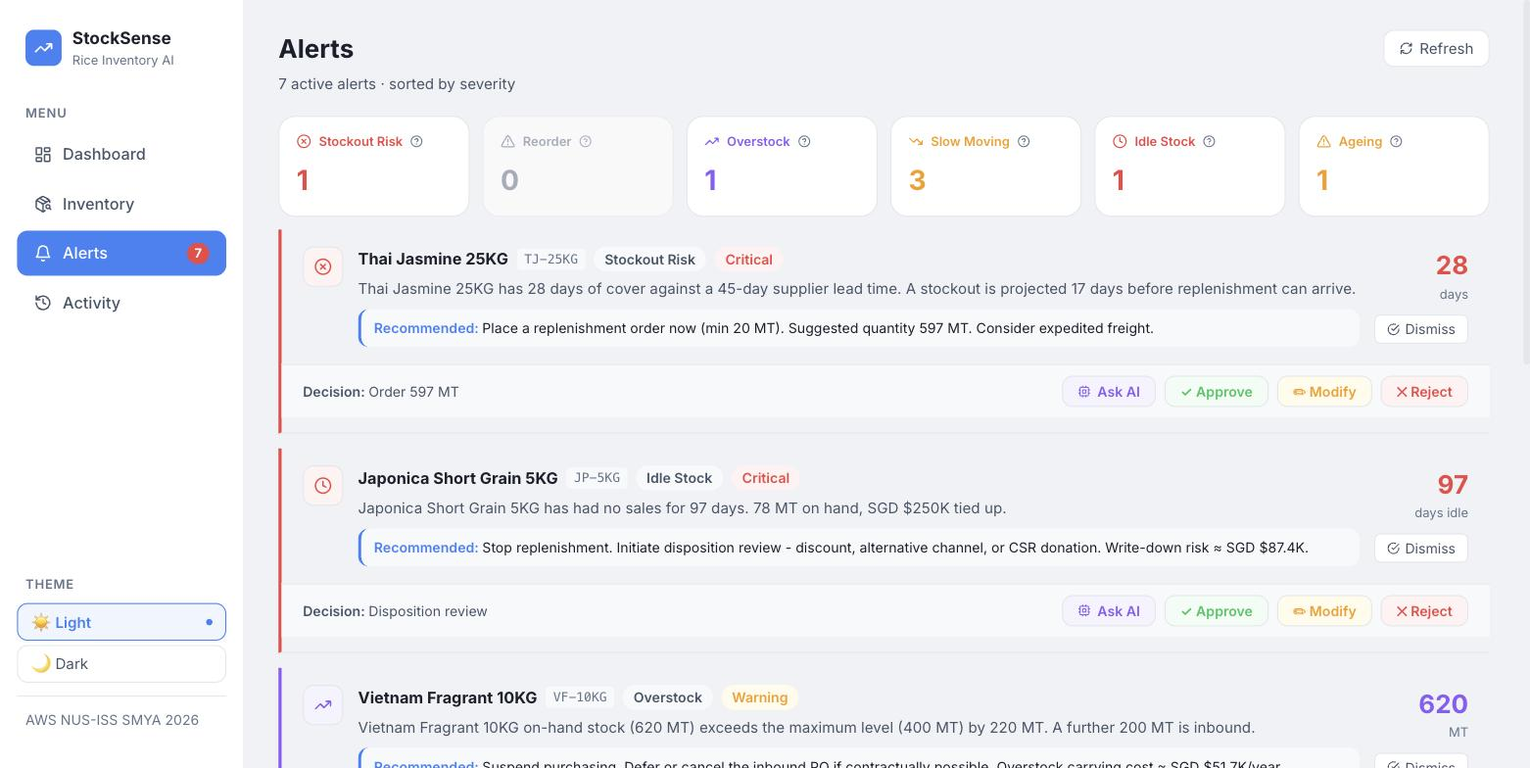
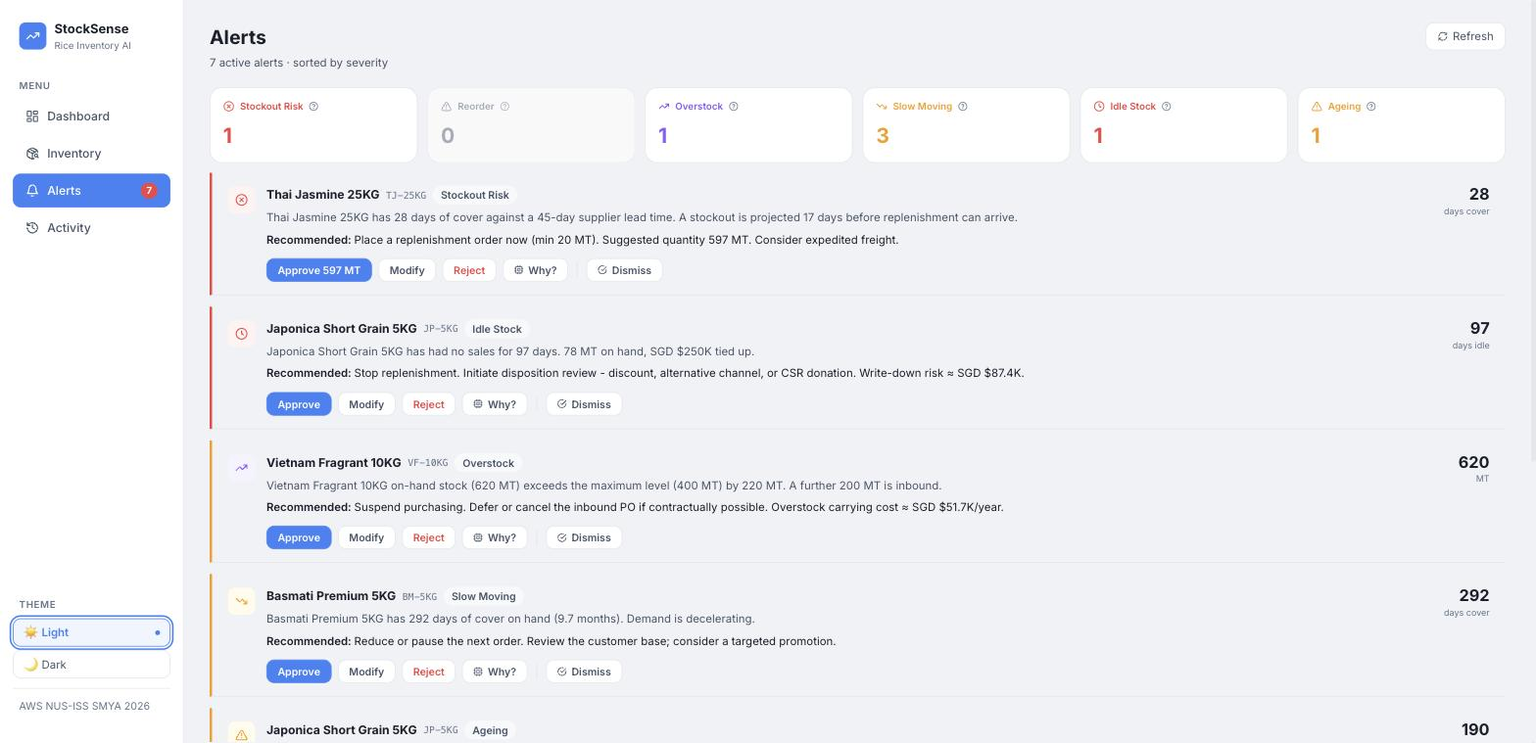
refactor(alerts): declutter the card, move the decision log to Activity
Two questions from Stan, the Alerts page reading as cluttered and whether
Activity should fold into it, which turn out to be the same question because the
clutter had a structural cause rather than a styling one.

Four encodings of two facts: a type coloured stripe, a type coloured icon, a
type chip and a severity chip, all under a tile row that already groups by type.
Severity moved to the stripe so one chip could go.

A box inside a box inside a box: the recommended action sat in a bordered,
tinted panel with its own coloured left bar, inside a card that already has a
border and a stripe. The label alone separates it.

Actions split across two places with a different set per card: Dismiss floated
mid card beside the metric while the other four sat in a footer gated on
needsApproval, so four of the seven live alerts offered no decision at all.
Those four carry real recommended actions and WRITEUP.md claims every
recommendation terminates at a human decision, which was not true. Every alert
is now decidable, in one action row.

A rainbow instead of a hierarchy: four buttons in four colours meant nothing led
and the eye read all four. One primary, the rest quiet. The primary states what
it records ("Approve 597 MT"), which let its caption line go.

On the second question, Activity stays standalone. Alerts is a work queue and
items leave it when handled; Activity is the permanent record and nothing ever
[…]

diff --git a/frontend/src/pages/Alerts.jsx b/frontend/src/pages/Alerts.jsx
@@ -1,13 +1,13 @@
 import React, { useState, useEffect, useCallback } from "react";
+import { Link } from "react-router-dom";
 import {
   AlertTriangle, XCircle, TrendingUp, TrendingDown,
-  RefreshCw, X, CheckCircle, Clock, Cpu, ChevronDown,
+  RefreshCw, X, CheckCircle, Clock, Cpu, History,
 } from "lucide-react";
 import Badge from "../components/Badge";
 import ColHint from "../components/ColHint";
 import LoadingState from "../components/LoadingState";
 import ErrorState from "../components/ErrorState";
-import { useCollapsed } from "../hooks/useCollapsed";
 import { api } from "../api/inventory";
 import { buildExplanation } from "../lib/explain";
 
@@ -91,11 +91,6 @@ const TYPE_HINTS = {
     how: "The number shown is days held. Rice doesn't spoil overnight, but quality and sellability drop the longer it sits past that limit.",
   },
 };
-const DECISION_LOG_HINT = {
-  what: "A permanent record of every Approve, Modify, or Reject decision a manager has made on an AI/rule-based recommendation.",
-  how: "Nothing here can be edited or deleted - it's the audit trail for \"who decided what, and why,\" not a working list. Compare Manager Decision against AI Recommended to see how often recommendations get overridden.",
-};
-
 // Ask AI is a placeholder until TASK-11 wires a real LLM call (blocked on an
 // Anthropic API key). This used to look up a MOCK_AI_EXPLANATIONS dict keyed
 // by numeric alert.id, hand-written against the old mock alert set - but
@@ -122,7 +117,6 @@ export default function Alerts() {
   // Needed by the explanation builder: alerts carry the conclusion, the SKU
   // carries the inputs the conclusion was derived from.
   const [skus, setSkus] = useState([]);
-  const [logOpen, setLogOpen] = useCollapsed("alerts-decision-log", true);
 
   const loadAlerts = useCallback(() => {
     setLoadError(null);
@@ -282,69 +276,27 @@ export default function Alerts() {
         )}
       </div>
 
-      {/* ── Decision log - collapsible: it only grows, and isn't something
-          you need open on every visit (matches the Dashboard's per-widget
-          collapse pattern, persisted the same way). ── */}
+      {/* The Decision Log table lived here and has moved to /activity.
+          It was a strict subset of what the audit trail already records
+          (DECISION_RECORDED events), rendered as a second, worse view: seven
+          columns of the same rows, growing forever, at the bottom of a page
+          whose job is the opposite one. Alerts is a work queue, things leave it
+          when handled. Activity is the permanent record, nothing ever leaves.
+          Keeping both meant the page that should shrink as you work also grew
+          as you worked. */}
       {decisions.length > 0 && (
-        <div>
-          <div style={{ display: "flex", alignItems: "center", gap: 5, marginBottom: logOpen ? 14 : 0 }}>
-            <button type="button" onClick={() => setLogOpen((v) => !v)} aria-expanded={logOpen}
-              aria-label={logOpen ? "Collapse Decision Log" : "Expand Decision Log"}
-              style={{ display: "flex", alignItems: "center", gap: 6, background: "none", border: "none", cursor: "pointer", padding: 0, color: "inherit" }}>
-              <ChevronDown size={15} color="var(--text-muted)" style={{ transform: logOpen ? "none" : "rotate(-90deg)", transition: "transform 0.15s" }} />
-              <h2 style={{ fontSize: 18, fontWeight: 700 }}>Decision Log</h2>
-            </button>
-            <ColHint label="Decision Log" what={DECISION_LOG_HINT.what} how={DECISION_LOG_HINT.how} />
-          </div>
-          {logOpen && (
-          <div style={{ background: "var(--card-bg)", border: "1px solid var(--border)", borderRadius: "var(--radius-lg)", overflow: "hidden" }}>
-            <table style={{ width: "100%", borderCollapse: "collapse" }}>
-              <thead>
-                <tr style={{ background: "var(--surface-2)", borderBottom: "1px solid var(--border)" }}>
-                  {["Time", "SKU", "Alert Type", "AI Recommended", "Manager Decision", "Qty Approved", "Reason"].map((h) => (
-                    <th key={h} style={{ padding: "9px 14px", textAlign: "left", fontSize: 12, fontWeight: 600, color: "var(--text-secondary)", whiteSpace: "nowrap" }}>{h}</th>
-                  ))}
-                </tr>
-              </thead>
-              <tbody>
-                {decisions.map((d, i) => (
-                  <tr key={d.id} style={{ borderBottom: i < decisions.length - 1 ? "1px solid var(--border)" : "none" }}>
-                    <td style={{ padding: "10px 14px", fontSize: 13, color: "var(--text-muted)", whiteSpace: "nowrap" }}>
-                      {new Date(d.decided_at).toLocaleTimeString("en-SG", { hour: "2-digit", minute: "2-digit" })}
-                    </td>
-                    <td style={{ padding: "10px 14px", fontSize: 14, fontWeight: 600 }}>{d.sku_name}</td>
-                    <td style={{ padding: "10px 14px" }}>
-                      {d.trigger_type && <Badge type={d.trigger_type} label={d.trigger_type.replace(/_/g, " ")} />}
-                    </td>
-                    <td style={{ padding: "10px 14px", fontSize: 13, color: "var(--text-secondary)", maxWidth: 220, overflow: "hidden", textOverflow: "ellipsis", whiteSpace: "nowrap" }}
-                      title={d.ai_quantity == null ? d.ai_recommendation : undefined}>
-                      {/* Quantity-based alerts (stockout, reorder) recommend an
-                          MT figure; qualitative ones (idle, ageing, slow-moving)
-                          don't - this used to fall back to a bare, meaningless
-                          "Review" literal instead of the actual recommendation
-                          text that's already stored right alongside it. */}
-                      {d.ai_quantity != null ? `${d.ai_quantity} MT` : (d.ai_recommendation || "-")}
-                    </td>
-                    <td style={{ padding: "10px 14px" }}>
-                      <span style={{
-                        fontWeight: 700, fontSize: 13,
-                        color: d.manager_action === "approved" ? "var(--green)" : d.manager_action === "rejected" ? "var(--red)" : "var(--yellow)",
-                      }}>
-                        {d.manager_action.toUpperCase()}
-                      </span>
-                    </td>
-                    <td style={{ padding: "10px 14px", fontSize: 14 }}>
-                      {d.manager_quantity != null ? `${d.manager_quantity} MT` : "-"}
-                    </td>
-                    <td style={{ padding: "10px 14px", fontSize: 13, color: "var(--text-secondary)" }}>
-                      {d.manager_reason || "-"}
-                    </td>
-                  </tr>
-                ))}
-              </tbody>
-            </table>
-          </div>
-          )}
+        <div style={{ marginTop: 4, marginBottom: 24 }}>
+          <Link to="/activity" style={{
+            display: "inline-flex", alignItems: "center", gap: 7,
+            fontSize: 13, fontWeight: 600, color: "var(--text-secondary)",
+            textDecoration: "none", padding: "8px 14px",
+            border: "1px solid var(--border)", borderRadius: "var(--radius)",
+            background: "var(--card-bg)",
+          }}>
+            <History size={13} />
+            {decisions.length} decision{decisions.length === 1 ? "" : "s"} recorded
+            <span style={{ color: "var(--text-muted)", fontWeight: 500 }}>View in Activity</span>
+          </Link>
         </div>
       )}
 
@@ -367,105 +319,130 @@ export default function Alerts() {
 }
 
 // ── Alert card ─────────────────────────────────────────────────────────────────
+// Severity colours the stripe. Type colours the icon and the chip. The card used
+// to carry FOUR encodings of roughly the same two facts: a type-coloured stripe,
+// a type-coloured icon, a type chip AND a severity chip, on top of a tile row
+// above that already groups by type. Severity moved to the stripe so one chip
+// could go.
+const SEVERITY_STRIPE = { critical: "var(--red)", warning: "var(--yellow)", info: "var(--blue)" };
+
+// Unit for each alert type's triggered_value - see backend/src/engines/alerts.js
+const VALUE_UNIT = {
+  STOCKOUT_RISK: "days cover", SLOW_MOVING: "days cover",
+  REORDER: "MT", OVERSTOCK: "MT",
+  IDLE: "days idle", AGEING: "days held",
+};
+
+function ActionButton({ onClick, children, variant = "quiet", title }) {
+  // One primary, everything else quiet. The row used to be four buttons in four
+  // different colours (purple, green, amber, red), which is a rainbow rather
+  // than a hierarchy: nothing led, so the eye had to read all four every time.
+  const styles = {
+    primary: { background: "var(--blue)", color: "#fff", border: "1px solid var(--blue)" },
+    quiet:   { background: "var(--card-bg)", color: "var(--text-secondary)", border: "1px solid var(--border)" },
+    danger:  { background: "var(--card-bg)", color: "var(--red)", border: "1px solid var(--border)" },
+  }[variant];
+  return (
+    <button onClick={onClick} title={title}
+      style={{
+        display: "inline-flex", alignItems: "center", gap: 6,
+        padding: "6px 13px", borderRadius: "var(--radius)",
+        fontSize: 13, fontWeight: 600, cursor: "pointer", whiteSpace: "nowrap",
+        ...styles,
+      }}>
+      {children}
+    </button>
+  );
+}
+
 function AlertCard({ alert, onAcknowledge, onAskAI, onApprove, isLast }) {
   const meta = TYPE_META[alert.alert_type] || TYPE_META.REORDER;
   const Icon = meta.icon;
-  const needsApproval = alert.severity === "critical" || (alert.ai_recommendation_qty != null);
 
-  // Hairline divider, not a bordered-and-shadowed box - matches the rest of
-  // the app's post-overhaul style; the colored left stripe still carries
-  // severity at a glance without needing a full card outline (visual-
-  // consistency pass, 2026-09 - this was the last page still boxing rows).
+  // Every alert is now decidable. `needsApproval` previously gated the action
+  // row on critical severity or a non-null quantity, so four of the seven live
+  // alerts offered no decision at all, only Dismiss. Those four still carry a
+  // real recommended action ("Reduce or pause the next order", "Escalate to QA")
+  // that a manager should be able to approve or reject, and the write-up claims
+  // every recommendation terminates at a human decision. It did not.
+  const decision = alert.ai_recommendation_qty > 0
+    ? `Order ${alert.ai_recommendation_qty} MT`
+    : (ACTION_SUMMARY[alert.alert_type] || "Review this SKU");
+
   return (
     <div style={{
-      borderLeft: `3px solid ${meta.color}`,
+      borderLeft: `3px solid ${SEVERITY_STRIPE[alert.severity] || "var(--border)"}`,
       borderBottom: isLast ? "none" : "1px solid var(--border)",
-      paddingBottom: 14,
     }}>
-      {/* Main row */}
       <div style={{ display: "flex", alignItems: "flex-start", gap: 14, padding: "16px 20px" }}>
-        {/* Icon */}
-        <div style={{ width: 38, height: 38, borderRadius: 10, background: meta.bg, border: "1px solid var(--border)", display: "flex", alignItems: "center", justifyContent: "center", flexShrink: 0 }}>
-          <Icon size={17} color={meta.color} />
+        <div style={{
+          width: 34, height: 34, borderRadius: 9, background: meta.bg,
+          display: "flex", alignItems: "center", justifyContent: "center", flexShrink: 0, marginTop: 1,
+        }}>
+          <Icon size={16} color={meta.color} />
         </div>
 
-        {/* Content */}
         <div style={{ flex: 1, minWidth: 0 }}>
-          <div style={{ display: "flex", alignItems: "center", gap: 8, flexWrap: "wrap", marginBottom: 6 }}>
+          <div style={{ display: "flex", alignItems: "center", gap: 8, flexWrap: "wrap" }}>
             <span style={{ fontWeight: 700, fontSize: 15 }}>{alert.sku_name}</span>
-            <span style={{ fontSize: 12, fontFamily: "monospace", color: "var(--text-muted)", background: "var(--surface-2)", padding: "1px 7px", borderRadius: 4 }}>{alert.sku_id}</span>
+            <span style={{ fontSize: 12, fontFamily: "monospace", color: "var(--text-muted)" }}>{alert.sku_id}</span>
             <Badge type={alert.alert_type} label={meta.label} />
-            <Badge type={alert.severity} />
           </div>
-          <p style={{ fontSize: 14, color: "var(--text-secondary)", lineHeight: 1.55, marginBottom: 8 }}>
+
+          <p style={{ fontSize: 14, color: "var(--text-secondary)", lineHeight: 1.55, margin: "6px 0 0" }}>
             {alert.message}
           </p>
-          <div style={{ padding: "8px 12px", background: "var(--surface-2)", borderRadius: "var(--radius)", fontSize: 13, color: "var(--text-primary)", borderLeft: "3px solid var(--blue)" }}>
-            <span style={{ fontWeight: 600, color: "var(--blue)" }}>Recommended: </span>
+
+          {/* Unboxed. This was a bordered, tinted panel with its own coloured
+              left bar, sitting inside a card that already has a border and a
+              coloured left stripe: a box inside a box inside a box. The label
+              alone separates it perfectly well. */}
+          <p style={{ fontSize: 14, color: "var(--text-primary)", lineHeight: 1.55, margin: "6px 0 0" }}>
+            <span style={{ fontWeight: 600 }}>Recommended: </span>
             {alert.recommended_action}
+          </p>
+
+          {/* One action row, always present, Dismiss included. Dismiss used to
+              float in the middle of the card beside the metric while the other
+              four sat in a footer bar that only some cards had, so actions were
+              split across two places and the set changed card to card. */}
+          {/* The primary button states what approving will record, so the
+              separate "Approving records: ..." line underneath could go. A
+              button that says "Approve 597 MT" needs no caption.
+
+              Dismiss stays in the same cluster rather than being pushed to the
+              far edge by a flex spacer, which on a wide screen stranded it
+              about a thousand pixels from its siblings. A plain separator
+              carries "different kind of action" without the distance. */}
+          <div style={{ display: "flex", alignItems: "center", gap: 8, flexWrap: "wrap", marginTop: 12 }}>
+            <ActionButton variant="primary" onClick={() => onApprove(alert)}
+              title={`Record approval: ${decision}`}>
+              {alert.ai_recommendation_qty > 0 ? `Approve ${alert.ai_recommendation_qty} MT` : "Approve"}
+            </ActionButton>
+            <ActionButton onClick={() => onApprove({ alert, preAction: "modified" })}>Modify</ActionButton>
+            <ActionButton variant="danger" onClick={() => onApprove({ alert, preAction: "rejected" })}>Reject</ActionButton>
+            <ActionButton onClick={() => onAskAI(alert)} title="Show the reasoning behind this alert">
+              <Cpu size={12} /> Why?
+            </ActionButton>
+            <span aria-hidden style={{ width: 1, height: 18, background: "var(--border)", margin: "0 3px" }} />
+            <ActionButton onClick={() => onAcknowledge(alert.id)} title="Dismiss without recording a decision">
+              <CheckCircle size={12} /> Dismiss
+            </ActionButton>
           </div>
         </div>
 
-        {/* Right: value + acknowledge */}
-        <div style={{ textAlign: "right", flexShrink: 0 }}>
-          <div style={{ fontSize: 24, fontWeight: 700, color: meta.color }}>{alert.triggered_value}</div>
-          <div style={{ fontSize: 12, color: "var(--text-muted)", marginBottom: 10 }}>
-            {/* Matches each alert type's actual triggered_value unit - see backend/src/engines/alerts.js */}
-            {alert.alert_type === "STOCKOUT_RISK" || alert.alert_type === "SLOW_MOVING" ? "days" :
-             alert.alert_type === "REORDER" || alert.alert_type === "OVERSTOCK" ? "MT" :
-             alert.alert_type === "IDLE" ? "days idle" : "days held"}
+        {/* The metric, quieter than before. At 24px bold in the type colour it
+            competed with the product name for first read; the name is what a
+            manager scans for. */}
+        <div style={{ textAlign: "right", flexShrink: 0, minWidth: 74 }}>
+          <div style={{ fontSize: 20, fontWeight: 700, color: "var(--text-primary)", lineHeight: 1.1 }}>
+            {alert.triggered_value}
           </div>
-          <button onClick={() => onAcknowledge(alert.id)}
-            style={{ display: "flex", alignItems: "center", gap: 5, padding: "5px 11px", border: "1px solid var(--border)", borderRadius: 6, background: "var(--card-bg)", fontSize: 13, cursor: "pointer", color: "var(--text-secondary)" }}>
-            <CheckCircle size={12} /> Dismiss
-          </button>
+          <div style={{ fontSize: 11, color: "var(--text-muted)", marginTop: 2 }}>
+            {VALUE_UNIT[alert.alert_type] || "days"}
+          </div>
         </div>
       </div>
-
-      {/* Action bar - only for alerts needing manager decision */}
-      {needsApproval && (
-        <div style={{
-          display: "flex", alignItems: "center", justifyContent: "space-between",
-          padding: "10px 20px", background: "var(--surface-2)",
-          borderTop: "1px solid var(--border)",
-        }}>
-          <div style={{ fontSize: 13, color: "var(--text-secondary)" }}>
-            <span style={{ fontWeight: 600 }}>Decision: </span>
-            {alert.ai_recommendation_qty > 0
-              ? `Order ${alert.ai_recommendation_qty} MT`
-              : (ACTION_SUMMARY[alert.alert_type] || "Review this SKU")}
-          </div>
-          <div style={{ display: "flex", gap: 8 }}>
-            {/* Ask AI button */}
-            <button onClick={() => onAskAI(alert)}
-              style={{
-                display: "flex", alignItems: "center", gap: 6,
-                padding: "6px 14px", borderRadius: "var(--radius)",
-                border: "1px solid var(--border)",
-                background: "var(--purple-light)", color: "var(--purple)",
-                fontSize: 13, fontWeight: 600, cursor: "pointer",
-              }}
-            >
-              <Cpu size={12} /> Ask AI
-            </button>
-            {/* Approval buttons - fixed: these referenced the out-of-scope
-                `setApprovalModal` directly and threw ReferenceError on click;
-                now correctly call the `onApprove` prop passed down from Alerts(). */}
-            <button onClick={() => onApprove(alert)}
-              style={{ padding: "6px 14px", borderRadius: "var(--radius)", border: "1px solid var(--border)", background: "var(--green-light)", color: "var(--green)", fontSize: 13, fontWeight: 600, cursor: "pointer" }}>
-              ✓ Approve
-            </button>
-            <button onClick={() => onApprove({ alert, preAction: "modified" })}
-              style={{ padding: "6px 14px", borderRadius: "var(--radius)", border: "1px solid var(--border)", background: "var(--yellow-light)", color: "var(--yellow)", fontSize: 13, fontWeight: 600, cursor: "pointer" }}>
-              ✏ Modify
-            </button>
-            <button onClick={() => onApprove({ alert, preAction: "rejected" })}
-              style={{ padding: "6px 14px", borderRadius: "var(--radius)", border: "1px solid var(--border)", background: "var(--red-light)", color: "var(--red)", fontSize: 13, fontWeight: 600, cursor: "pointer" }}>
-              ✕ Reject
-            </button>
-          </div>
-        </div>
-      )}
     </div>
   );
 }

diff --git a/.kiro/specs/mvp1-inventory-visibility/tasks.md b/.kiro/specs/mvp1-inventory-visibility/tasks.md
@@ -1153,6 +1153,43 @@ sidebar breakpoint from index.css, but that is reasoning about the code rather t
 Note for export: the image paths are repo-relative, so the markdown-to-PDF step has to run from the
 repository root.
 
+## TASK-40 - Declutter Alerts, and settle the Alerts versus Activity question (2026-09-13)
+
+Stan reported the Alerts page as cluttered and asked whether Activity should fold into it. The two turn
+out to be the same question, because the clutter had a structural cause rather than a styling one.
+
+**Four encodings of two facts.** Each card carried a type-coloured left stripe, a type-coloured icon, a
+type chip AND a severity chip, sitting under a tile row that already groups by type. Severity moved to
+the stripe so one chip could go: icon and chip now carry type, the stripe carries severity.
+
+**A box inside a box inside a box.** The recommended action sat in a bordered, tinted panel with its own
+coloured left bar, inside a card that already has a border and a stripe. Unboxed, the label alone
+separates it.
+
+**Actions split across two places, and a different set per card.** Dismiss floated mid-card beside the
+metric while the other four sat in a footer bar shown only when `needsApproval` passed, so four of the
+seven live alerts offered no decision at all. Those four carry real recommended actions ("Reduce or
+pause the next order", "Escalate to QA") and the write-up claims every recommendation terminates at a
+human decision, which was simply not true. Every alert is now decidable, with one action row.
+
+**A rainbow instead of a hierarchy.** Purple, green, amber and red buttons meant nothing led and the eye
+read all four. One primary, the rest quiet. The primary also states what it will record ("Approve 597
+MT"), which let the "Approving records:" caption go.
+
+The metric dropped from 24px bold in the type colour to 20px in the text colour; it was competing with
+the product name, which is what a manager actually scans for.
+
+**Activity stays standalone, and the Decision Log left Alerts.** Alerts is a work queue: items leave it
+when handled. Activity is the permanent record: nothing ever leaves. Folding one into the other fights
+that, and Activity also covers RESTOCK, SKU_UPDATED and SKU_CREATED, which have nothing to do with
+alerts. The real duplication was the Decision Log table at the bottom of Alerts, a strict subset of the
+audit trail's DECISION_RECORDED events rendered as a second, worse view, which meant the page that
+should shrink as you work also grew as you worked. Replaced with a one-line pointer to /activity.
+Pruned the orphaned useCollapsed state, DECISION_LOG_HINT and ChevronDown import.
+
+Verified in both themes. Four cards now fit where two did, without cramming. Alerts screenshot in
+WRITEUP.md re-captured, since the old one showed the previous card design.
+
 ## Deferred (Phase 2+)
 See `requirements.md` → "Explicitly Deferred (Phase 2/3)" for the full table with rationale. Summary:
 movement ledger, lot/batch genealogy, mobile receiving, import clearance, full stock-status taxonomy

diff --git a/DEVLOG.md b/DEVLOG.md
@@ -308,3 +308,11 @@ Auto-generated session log for StockSense / Rice Inventory MVP.
 - **Files changed:** .kiro/specs/mvp1-inventory-visibility/tasks.md, DEVLOG.md, SUBMISSION.md, WRITEUP.md
 - **New files:** docs/images/{alerts-human-in-the-loop,reasoning-trace,activity-audit-record}.jpg
 - **Notes:** TASK-39. Captured the write-up's screenshots from the running app rather than leaving placeholder markers, so the PDF now needs only the deployment URL. Added a third image the outline did not ask for: section 3 spends four paragraphs arguing the deterministic-first case and had no evidence on the page, and the reasoning trace is both that evidence and the best-looking screen in the build. Captions are written to carry the argument rather than to describe the picture.
+
+---
+
+## Session: 2026-09-13 11:20
+- **Branch:** observability-and-submission-prep
+- **Files changed:** .kiro/specs/mvp1-inventory-visibility/tasks.md, DEVLOG.md, WRITEUP.md, docs/images/alerts-human-in-the-loop.jpg, frontend/src/pages/Alerts.jsx
+- **New files:** none
+- **Notes:** TASK-40. Stan asked to declutter Alerts and whether Activity should fold into it; the answers connect. The clutter was structural: four encodings of two facts (stripe, icon, type chip, severity chip, over a tile row already grouping by type), a recommended-action panel boxed inside an already-bordered card, actions split between a floating Dismiss and a footer that only some cards had, and four differently-coloured buttons with no hierarchy. Severity moved to the stripe, the panel unboxed, one action row on every card, one primary button that names what it records. Also made every alert decidable: needsApproval had been hiding the decision controls on four of seven live alerts whose recommended actions are perfectly decidable, while the write-up claimed the opposite. On the second question: Activity stays standalone, because Alerts is a queue that shrinks as you work and Activity is a record that only grows, and Activity covers restocks and policy edits that are not alerts at all. The genuine duplication was the Decision Log table at the bottom of Alerts, a worse rendering of the audit trail's own DECISION_RECORDED rows, so it became a one-line pointer to /activity.

diff --git a/WRITEUP.md b/WRITEUP.md
@@ -210,8 +210,9 @@ practice the right answer is frequently "yes, but not that much."
 
 ![The Alerts page. Each alert states the measured value and the threshold it breached, names the decision the buttons act on, and terminates at approve, modify or reject.](docs/images/alerts-human-in-the-loop.jpg)
 
-*Every recommendation terminates at a human decision. The "Decision:" line names what the three buttons
-will record, so approving is never approving nothing.*
+*Every recommendation terminates at a human decision, and the primary button states what approving will
+record. Severity is carried by the left stripe, type by the icon and chip, so the card encodes each fact
+once.*
 
 ---
 
